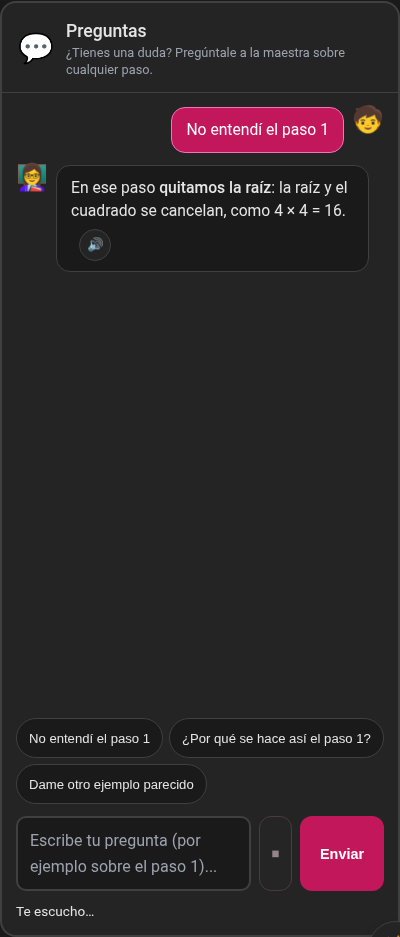
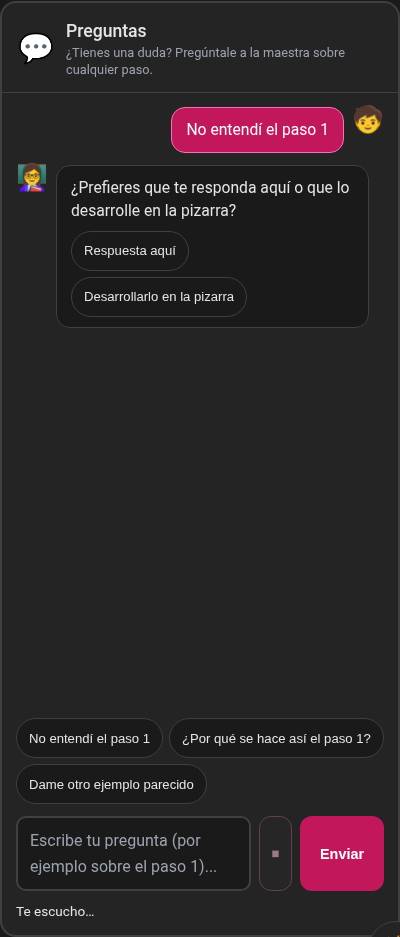
docs: capturas y README de las funciones nuevas
Símbolos y voz junto al problema, cuenta con palabras, el chat que pregunta cómo
quieres la respuesta, pizarra de ejemplo aparte y práctica dictando.

Changed region(s): [[0.18, 0.1857, 0.87, 0.3404], [0.9, 0.2785, 0.93, 0.3095]]

diff --git a/scripts/capturas/capturas.spec.ts b/scripts/capturas/capturas.spec.ts
@@ -95,3 +95,54 @@ test('dictado en el chat', async ({ page }) => {
   await expect(chat.locator('.chat-mic-status')).toBeVisible();
   await chat.screenshot({ path: `${DIR}/chat-microfono.png` });
 });
+
+test('simbolos matematicos junto al problema', async ({ page }) => {
+  await open(page);
+  await page.locator('.problem-input').fill('2x + 3 = ');
+  await page.getByRole('button', { name: /^➕➗ Símbolos|Símbolos$/ }).click();
+  await expect(page.getByRole('group', { name: 'Símbolos matemáticos' })).toBeVisible();
+  await page.getByRole('button', { name: 'raíz cuadrada' }).focus();
+  await page.locator('.input-section').screenshot({ path: `${DIR}/simbolos.png` });
+});
+
+test('cuenta dicha con palabras', async ({ page }) => {
+  await open(page);
+  await solve(page, 'divide trescientos entre cincuenta');
+  await goToStep(page, 3);
+  await page.locator('.workspace').screenshot({ path: `${DIR}/divide-palabras.png` });
+});
+
+test('el chat pregunta como quiere la respuesta', async ({ page }) => {
+  await open(page);
+  await solve(page, '2x + 4 = 10');
+  const chat = page.locator('.step-chat');
+  await chat.getByRole('button', { name: /no entendí el paso 1/i }).click();
+  await expect(chat.getByRole('button', { name: 'Desarrollarlo en la pizarra' })).toBeVisible();
+  await chat.scrollIntoViewIfNeeded();
+  await chat.screenshot({ path: `${DIR}/chat-pizarra.png` });
+});
+
+test('ejemplo en otra pizarra', async ({ page }) => {
+  await open(page);
+  await solve(page, '2x + 4 = 10');
+  const chat = page.locator('.step-chat');
+  await chat.locator('textarea').fill('¿y cómo sería 3/4 + 1/2?');
+  await chat.getByRole('button', { name: 'Enviar' }).click();
+  await chat.getByRole('button', { name: 'Desarrollarlo en la pizarra' }).click();
+  await chat.getByRole('button', { name: 'Ponerlo en otra pizarra' }).click();
+  const aside = page.getByRole('region', { name: 'Pizarra de ejemplo' });
+  await expect(aside).toBeVisible();
+  await page.getByRole('button', { name: /^.*Pausa$/ }).last().click();
+  await chalkDone(page);
+  await aside.scrollIntoViewIfNeeded();
+  await page.locator('.workspace').screenshot({ path: `${DIR}/pizarra-aparte.png` });
+});
+
+test('practicar dictando operaciones', async ({ page }) => {
+  await open(page);
+  await solve(page, '2x + 4 = 10');
+  await page.getByRole('button', { name: /practicar dictando/i }).click();
+  await expect(page.getByRole('complementary', { name: /dicta las operaciones/i })).toBeVisible();
+  await chalkDone(page);
+  await page.locator('.workspace').screenshot({ path: `${DIR}/practica.png` });
+});

diff --git a/docs/microfono-plan.md b/docs/microfono-plan.md
@@ -2,6 +2,9 @@
 
 Objetivo: que el niño hable en vez de escribir. Fase 1 = chat; Fase 2 = operaciones en la pizarra por voz.
 
+Estado: Fase 1 completa y liberada en `v0.4.9`. Fase 2 en curso: modelo de operación,
+parser determinista y pizarra interactiva ya funcionan; falta la intención por LLM.
+
 Lo que ya existe (base sobre la que construir):
 - `sherpa-onnx 1.13.8` en Cargo.toml (hoy solo TTS: Piper/Kokoro en `src-tauri/src/voice/`).
 - Patrón de descarga de modelos: `src-tauri/src/voice/download.rs` + `models/manager.rs`
@@ -9,7 +12,14 @@ Lo que ya existe (base sobre la que construir):
 - Chat: `src/components/StepChat.tsx` → `ask(question)` → `invoke('ask_about_steps')`.
 - Settings.tsx ya escucha eventos (`model-download-complete`, `models-updated`).
 
-## Fase 1 — micrófono en el chat (~1–2 días)
+## Fase 1 — micrófono en el chat (~1–2 días) — ✅ completa (v0.4.9)
+
+Estado: STT local con Whisper funcionando, botón de micrófono en el chat y descarga de
+modelos en Configuración. Implementado: `src-tauri/src/voice/stt.rs` (cpal + sherpa-onnx
+Transcriber), `src/lib/mic.ts` (eventos `mic-state`/`mic-transcript`/`mic-error` y comandos
+`start_listening`/`stop_listening`/`list_mic_models`), `MicSection.tsx` (descarga),
+`StepChat.tsx` (dictado → pregunta, barge-in). Tests: vitest para la UI + `cargo test voice`
+(2 tests ignorados: requieren modelo descargado con `STT_TEST_DIR`).
 
 1. **STT local**: sherpa-onnx ya soporta Whisper (Transcriber) con modelos ONNX
    multilingües. Reutilizar el crate existente; si la binding Rust de Transcriber no
@@ -44,17 +54,33 @@ de Small.
 6. **Tests**: vitest para la UI (mock de `mic-transcript`), Rust test con `VOICE_TEST_DIR`
    como `voz_real_genera_audio_con_piper_y_kokoro`.
 
-## Fase 2 — operaciones por voz (~2–3 días)
+## Fase 2 — operaciones por voz (~2–3 días) — 🟡 en curso
 
-1. **Modelo de operación**: hoy la pizarra genera scripts (`equationScript` en
-   `src/lib/board/equation.ts`); falta un modo interactivo: definir `Operation`
-   (sumar/restar a ambos lados, elevar al cuadrado, dividir…) + `applyOperation()` en `src/lib/board/`.
-2. **Intent por voz**: pasar el transcript por el LLM local con un prompt de intención
-   (utterance → `Operation` + parámetros), reutilizando `engine.rs`/`local.rs`.
-   Fallback determinista: regex para frases frecuentes ("elevar al cuadrado", "restar 4").
-3. **Feedback**: la maestra confirma la operación en voz alta y la pizarra la dibuja
-   (mismos `BoardStep`/`visual`).
-4. **Seguridad**: operación no reconocida → preguntar, no ejecutar.
+Estado: modelo de operación + parser determinista + pizarra interactiva funcionando y
+testeados. Falta la intención por LLM y pulir estilos/e2e.
+
+Implementado:
+- `src/lib/board/ops.ts`: `Operation` (sumar/restar/multiplicar/dividir ambos lados) +
+  `applyOperation()` sobre `Lin`/`Equation` → `BoardStep` con la balanza; `isSolved`/`answerOf`.
+- `src/lib/board/intent.ts`: `parseOperationIntent(transcript, lang)` — camino determinista
+  (regex de frases comunes en es/en, números en dígitos o palabras); devuelve `null` si no
+  se entiende.
+- `src/components/PracticeBoard.tsx`: modo práctica — la pizarra crece paso a paso con cada
+  operación dictada, la maestra confirma en voz alta y, si no se entiende o se divide entre 0,
+  pregunta en vez de ejecutar.
+- `Chalkboard.tsx` admite paso controlado desde afuera (`step`, `onStepDone`, `onStepMove`).
+- `MainApp.tsx`: toggle "Practicar dictando" cuando el problema es una ecuación de primer grado.
+- **Enrutado del dictado**: lo que se dice primero se intenta resolver en la pizarra (`boardFor`:
+  cuentas, expresiones, fracciones, ecuaciones, sistemas); si no es un problema, se toma como
+  operación del modo práctica; si nada se entiende, pasa al chat como pregunta.
+- Tests: `ops.test.ts`, `intent.test.ts`, `PracticeBoard.test.tsx`, `StepChat.test.tsx`.
+
+Pendiente:
+1. **Intent por LLM**: pasar el transcript por el LLM local con un prompt de intención
+   (utterance → `Operation` + parámetros), reutilizando `engine.rs`/`local.rs`, con el parser
+   determinista como fallback.
+2. Operaciones no lineales (elevar al cuadrado) y ecuaciones con la incognita a la derecha.
+3. Estilos propios del modo práctica y cobertura e2e.
 
 ## Riesgos
 

diff --git a/README.md b/README.md
@@ -15,6 +15,10 @@ Aplicación de escritorio (Tauri v2 + React/TypeScript) que enseña a niños a r
 - **Visuales**: balanza para ecuaciones, pizzas y rectángulos para fracciones.
 - **Chat de preguntas** sobre cada paso (`StepChat`).
 - **Micrófono**: dicta tus preguntas en voz alta; Whisper transcribe el audio en la propia computadora, sin internet. El modelo de voz se descarga desde Configuración › Micrófono.
+- **Botones junto al problema**: **🎤 Hablar** dicta el problema al cuadro de texto y **➕➗ Símbolos** abre un teclado de símbolos (`+ − × ÷ = / ( ) √ ² ³ ^ x y .`) para quien no sabe sacarlos con el teclado. Ambos son accesibles (nombre hablado, foco visible, Escape cierra).
+- **Cuentas dichas con palabras**: "divide trescientos entre cincuenta" o "multiplica 12 por 3" se resuelven en la pizarra con todo el procedimiento.
+- **Ejemplos desde el chat**: al preguntar, la maestra pregunta si quieres la respuesta aquí o que lo desarrolle en la pizarra; si eliges la pizarra, puedes **borrar y escribir** o ponerlo en **otra pizarra aparte** sin perder la principal.
+- **Practicar dictando operaciones**: en una ecuación de primer grado, el modo práctica deja que el niño dicte operaciones ("sumar 3", "dividir entre 4") y la pizarra las ejecuta paso a paso con la balanza; si no se entiende, la maestra pregunta en vez de ejecutar.
 - **Lienzo de dibujo**: lee lo que el niño escribe/dibuja con modelos con visión (mtmd) y permite corregirlo.
 - **IA local con llama.cpp** integrado en la app (como Handy con whisper): sin servidor ni puertos; backends CPU/CUDA/Vulkan se cargan en tiempo de ejecución según el hardware.
 - **Gestor de modelos** (Llama, Qwen, Phi, Gemma, Mistral): descarga desde HuggingFace, selección del modelo activo y eliminación.
@@ -51,6 +55,12 @@ Los sistemas se escriben con una ecuación por renglón (también sirven `;` o `
 | **Pizarras de una en una**: los botones *Pizarra N* cambian de pizarra y *Ver todas* las junta. | **Configuración › Interfaz**: pizarras, reproducción automática, panel de temas y tema. |
 | ![Micrófono](docs/capturas/microfono.png) | ![Dictado en el chat](docs/capturas/chat-microfono.png) |
 | **Configuración › Micrófono**: descarga el modelo de voz una vez; el audio no sale del equipo. | **Hablar en el chat**: pulsa 🎤, habla y el dictado se envía como pregunta. |
+| ![Símbolos matemáticos](docs/capturas/simbolos.png) | ![Cuenta dicha con palabras](docs/capturas/divide-palabras.png) |
+| **Símbolos y voz junto al problema**: cada tecla trae su nombre hablado y Escape cierra el panel. | **"divide trescientos entre cincuenta"** se resuelve en la casita, paso a paso. |
+| ![El chat pregunta cómo quieres la respuesta](docs/capturas/chat-pizarra.png) | ![Ejemplo en otra pizarra](docs/capturas/pizarra-aparte.png) |
+| **Antes de contestar**, la maestra pregunta si quieres la respuesta aquí o desarrollada en la pizarra. | **Otra pizarra aparte**: el ejemplo se resuelve debajo sin tocar la pizarra principal. |
+| ![Practicar dictando operaciones](docs/capturas/practica.png) | |
+| **Practicar dictando**: dices "sumar 3" o "dividir entre 4" y la balanza lo hace en los dos lados. | |
 
 Las capturas se generan con `npm run capturas` (Playwright con el backend simulado de los e2e) y se guardan en
 `docs/capturas/`.
@@ -60,6 +70,7 @@ Las capturas se generan con `npm run capturas` (Playwright con el backend simula
 1. En **⚙ Configuración › 🎤 Micrófono**, descarga un modelo de voz (Whisper Turbo o Small) la primera vez.
 2. En el chat de un paso, pulsa **🎤** y habla; al detectar silencio, el audio se transcribe.
 3. El texto se envía como pregunta y la maestra responde. Todo se procesa en la computadora, sin internet.
+4. Lo que se dicta se resuelve primero en la pizarra (cuentas, expresiones, fracciones, ecuaciones); si no es un problema, se toma como operación del modo práctica o pasa al chat como pregunta.
 
 ## Configuración de la interfaz
 
